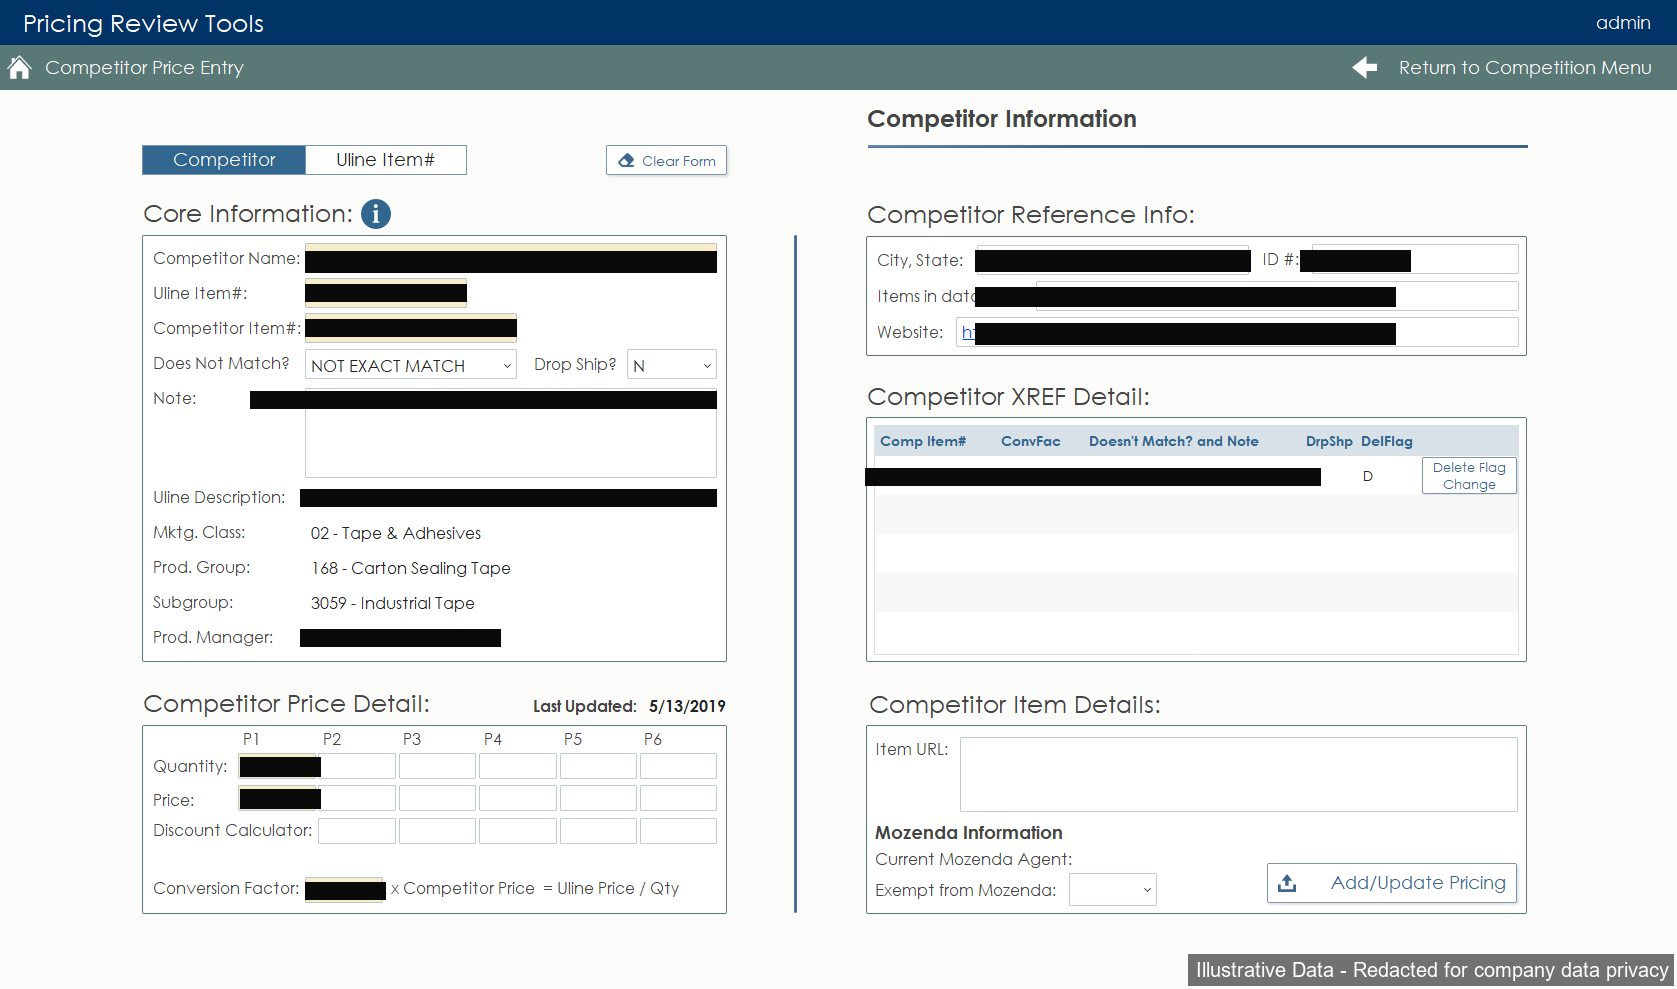
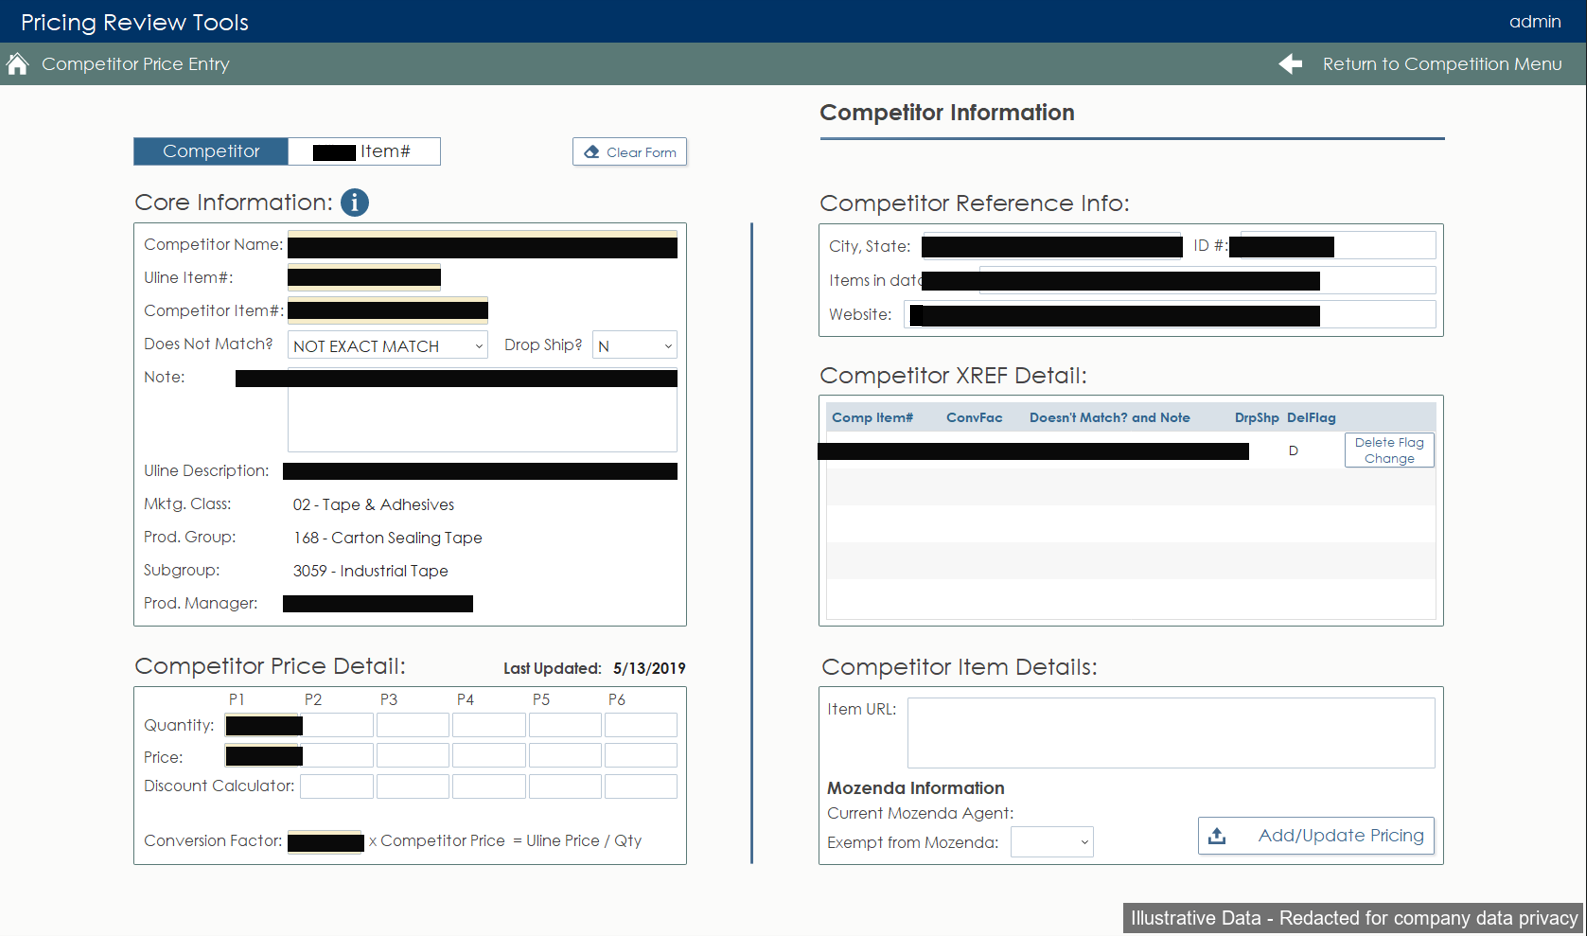
Update 3 screenshots and widen/rebalance site layout
- Swaps in Noah's updated Pricing Tool (competitor entry, bulk changes)
  and Test Call App (per-call review) screenshots.
- Unifies homepage and project-detail pages onto a single wider shared
  max-width (1500px) so screenshots render larger and switching between
  pages no longer causes a jarring width jump.
- Rebalances homepage card sizing/typography for the wider layout and
  trims vertical spacing so the homepage fits a standard desktop
  viewport without an unwanted scrollbar.
- Card text now aligns top-left instead of bottom-left; increases name/
  subdescription font sizes and contrast; brightens screenshot caption
  text; back-link now turns white (not green) on hover/press.

diff --git a/assets/styles.css b/assets/styles.css
@@ -9,7 +9,7 @@
   --accent-soft: rgba(57, 255, 136, 0.12);
   --amber: #ff9a52;
   --radius: 22px;
-  --max-width: 1140px;
+  --max-width: 1500px;
   --serif: Georgia, "Iowan Old Style", "Palatino Linotype", serif;
 }
 
@@ -44,22 +44,24 @@ body {
 }
 
 .site-name {
-  font-size: 0.95rem;
+  font-size: 0.9rem;
   font-weight: 600;
   color: var(--text);
+  letter-spacing: 0.08em;
+  text-transform: uppercase;
 }
 
 main {
   max-width: var(--max-width);
   margin: 0 auto;
-  padding: 56px 24px 96px;
+  padding: 40px 24px 64px;
 }
 
 .hero h1 {
   font-family: var(--serif);
   font-size: 3.1rem;
   font-weight: 400;
-  margin: 24px 0 18px;
+  margin: 12px 0 14px;
   letter-spacing: -0.01em;
 }
 
@@ -72,14 +74,14 @@ main {
   color: var(--text-muted);
   font-size: 1.05rem;
   max-width: 760px;
-  margin: 0 0 52px;
+  margin: 0 0 36px;
 }
 
 .project-grid {
   display: grid;
   grid-template-columns: repeat(2, 1fr);
-  grid-auto-rows: 190px;
-  gap: 16px;
+  grid-auto-rows: 210px;
+  gap: 20px;
 }
 
 @media (max-width: 640px) {
@@ -93,11 +95,11 @@ main {
   position: relative;
   display: flex;
   flex-direction: column;
-  justify-content: flex-end;
+  justify-content: flex-start;
   background: var(--bg-elevated);
   border: 1px solid var(--border);
   border-radius: var(--radius);
-  padding: 28px;
+  padding: 36px;
   text-decoration: none;
   color: var(--text);
   overflow: hidden;
@@ -129,15 +131,15 @@ main {
 
 .project-card h2 {
   font-family: var(--serif);
-  font-size: 1.5rem;
+  font-size: 1.8rem;
   font-weight: 400;
-  margin: 0 0 8px;
+  margin: 0 0 10px;
 }
 
 .project-card span.tag {
   display: inline-block;
-  font-size: 0.9rem;
-  color: var(--text-muted);
+  font-size: 1.02rem;
+  color: #d3d8d1;
   margin-top: 0;
 }
 
@@ -245,7 +247,7 @@ main {
 .screenshot-gallery figcaption {
   padding: 12px 16px;
   color: var(--text-muted);
-  font-size: 0.85rem;
+  font-size: 1.02rem;
 }
 
 .placeholder-note {
